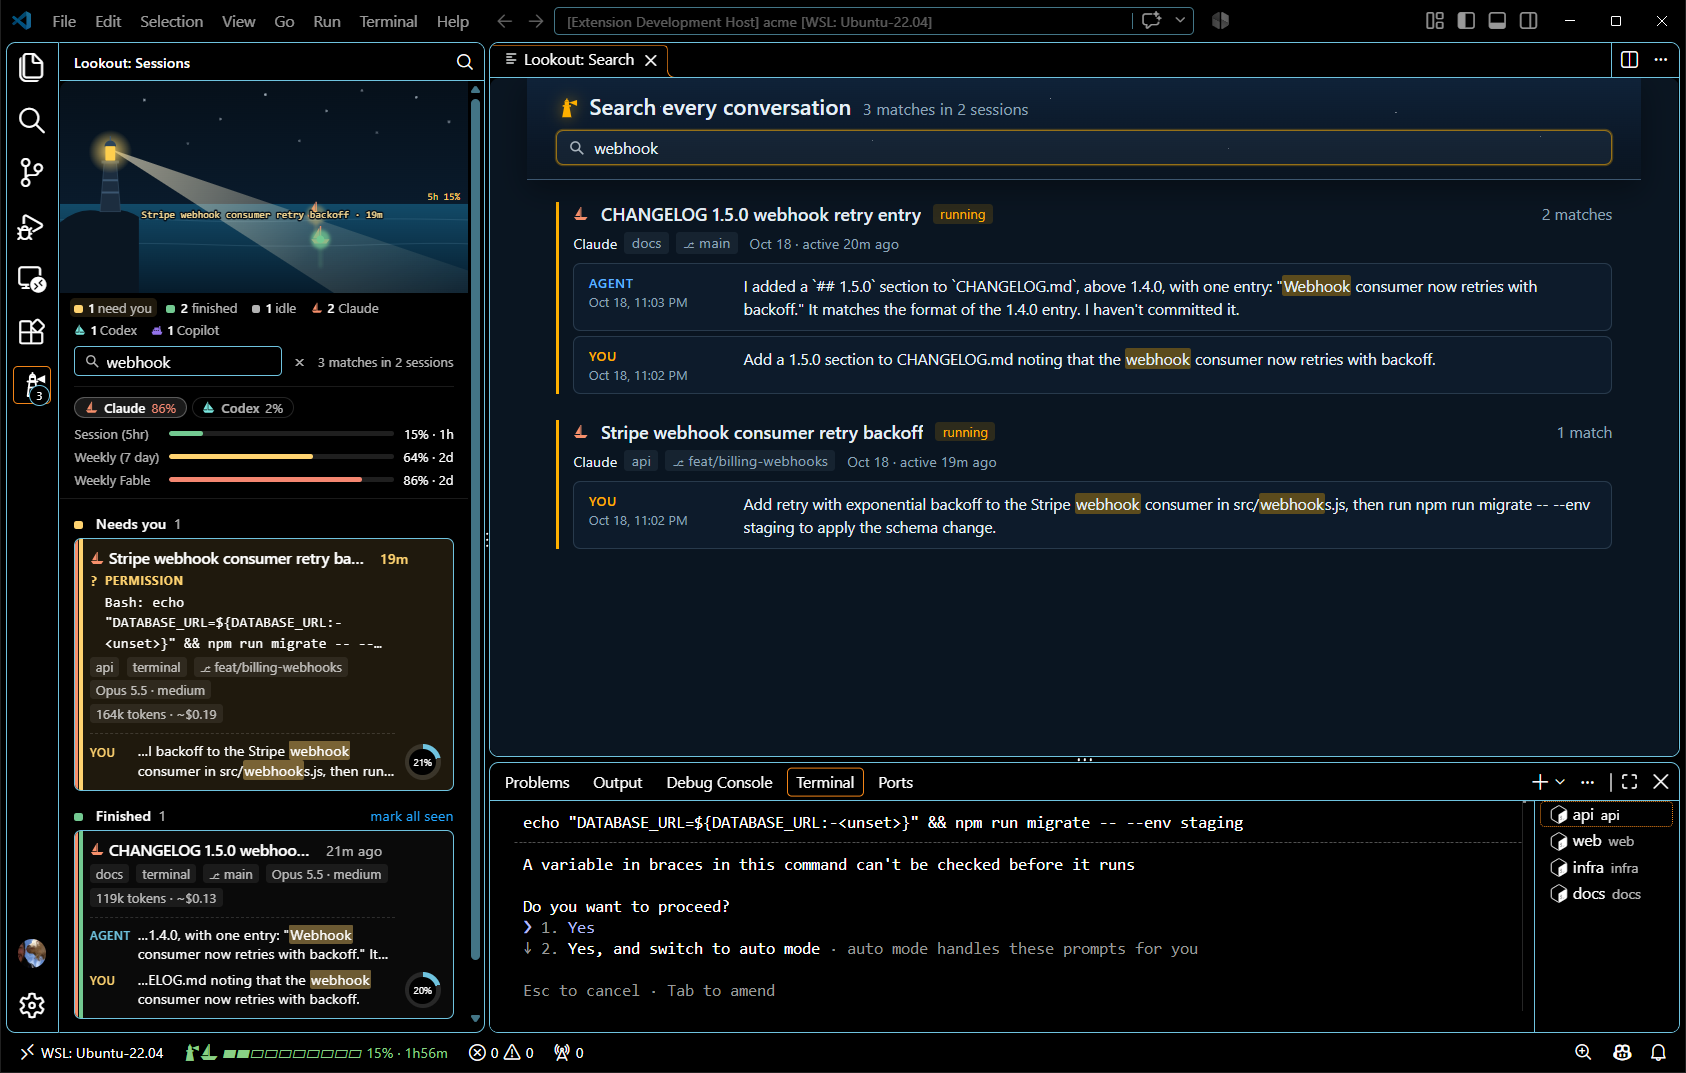
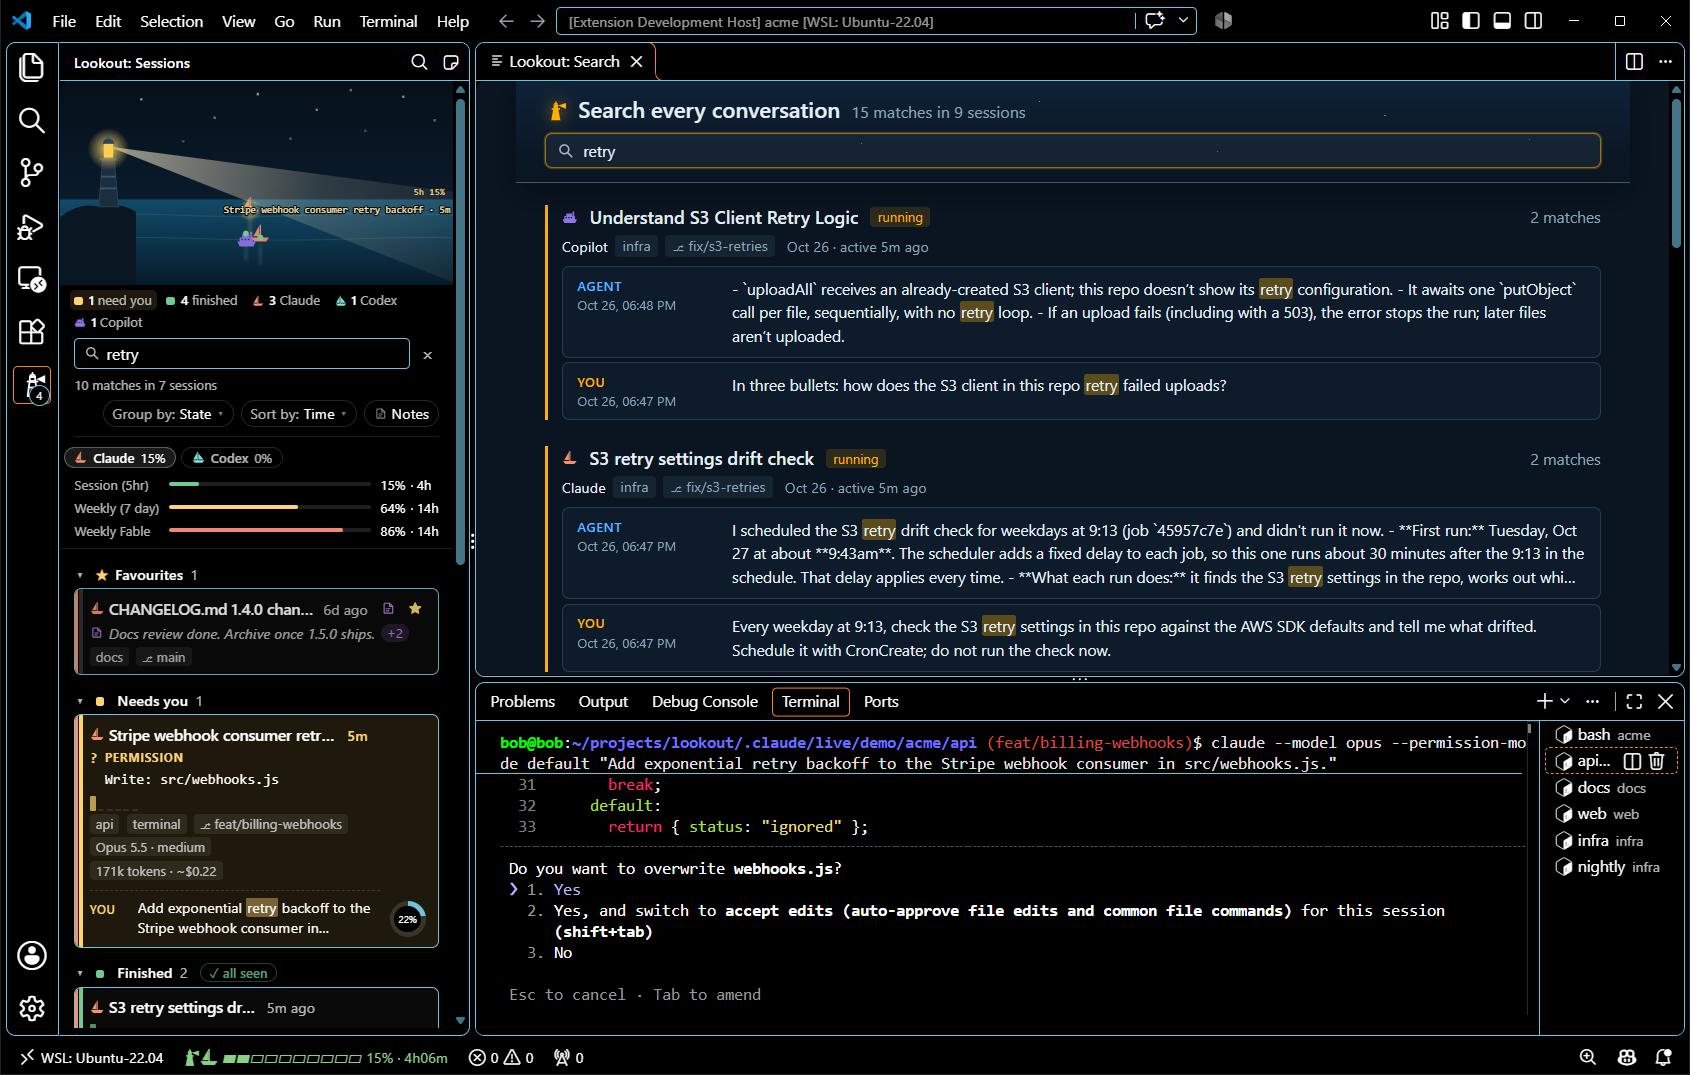
docs: README shots with notes, the Notes chip and a scheduled task (#109)
Reshot in an Extension Development Host on the demo workspace, with
the five open PRs built together and live demo sessions: Claude waiting
on a file write, Claude, Codex and Copilot sessions finished, a Claude
session that scheduled a weekday check for itself, and a starred
earlier session with three notes. README window, the dark and light
boards, the board after a search, the search page, and a new shot of
the notes page. The Claude limits are staged at 15/64/86 for the three
bar colours, as in the 0.1.2 shots.

diff --git a/docs/features.md b/docs/features.md
@@ -86,16 +86,20 @@ Every part of Lookout, in full: the board and its cards, favourites, the Earlier
 </table>
 
 <p align="center">
-  <img src="../media/readme/board.png" width="380" alt="The board in the dark theme: harbour, legend, the search box with its Group by and Sort by chips, usage, and the cards grouped by state">
+  <img src="../media/readme/board.png" width="380" alt="The board in the dark theme: harbour, legend, the search box with its Group by, Sort by and Notes chips, usage, a starred session with its newest note, and the cards grouped by state, one with the clock chip of a scheduled task">
   <img src="../media/readme/board-light.png" width="380" alt="The same board in the light theme">
 </p>
 
 <table>
   <tr>
-    <td width="36%"><img src="../media/readme/board-search.png" alt="The board after a search for a word: every session with a match keeps its card, with the matching lines quoted under it"></td>
-    <td><img src="../media/readme/search-page.png" alt="The search page: every match of the word across the sessions, with the agent, project and branch of each, and a click opens the conversation at that message"></td>
+    <td width="36%"><img src="../media/readme/board-search.png" alt="The board after a search for retry: the count of matches under the box, and every session with a match keeps its card, with the matching lines quoted under it"></td>
+    <td><img src="../media/readme/search-page.png" alt="The search page: every match of retry across the sessions, a Copilot and a Claude session first, with the agent, project and branch of each, and a click opens the conversation at that message"></td>
   </tr>
 </table>
+
+<p align="center">
+  <img src="../media/readme/notes.png" width="100%" alt="The notes page of a session: its title, project, branch and whether it runs, an Open session button, its three notes as a thread with the time of each, and the box for the next note with Add note">
+</p>
 
 <p align="center">
   <img src="../media/readme/conversation.png" width="100%" alt="A conversation tab opened from a search hit, scrolled to the match, with its own search and an Open session button">

diff --git a/README.md b/README.md
@@ -23,7 +23,7 @@
 </p>
 
 <p align="center">
-  <img src="media/readme/window.png" width="100%" alt="VS Code with the Lookout board in the side bar: the harbour with one boat per session, the legend, the search box with its Group by and Sort by chips, each agent's usage limits, and the cards: one Claude session waiting on a permission, and a Claude, a Codex and a Copilot session finished; the terminal below shows the prompt it waits on">
+  <img src="media/readme/window.png" width="100%" alt="VS Code with the Lookout board in the side bar: the harbour with one boat per session, the legend, the search box with its Group by, Sort by and Notes chips, each agent's usage limits, and the cards: a starred earlier session with its newest note and +2 for two more, one Claude session waiting on a permission to write a file, and a finished Claude session whose clock chip says its scheduled check runs at 09:43 tomorrow; the terminal below shows the prompt it waits on">
 </p>
 
 Running several AI coding agents at once means clicking through tabs and terminals to find out which one finished and which one is stuck on a question. Lookout keeps that answer on one board in the side bar, takes you to the right tab or terminal with one keystroke, and finds any conversation, running or not, by a word you remember from it. Claude Code in its VS Code panel or a terminal, Codex in its extension's panel, VS Code's Chat or a terminal, Copilot in VS Code's Chat or a terminal: one board, one jump key, one search, each agent with its own colour and boat once more than one is on the board. It reads only what the agents already write on disk.
